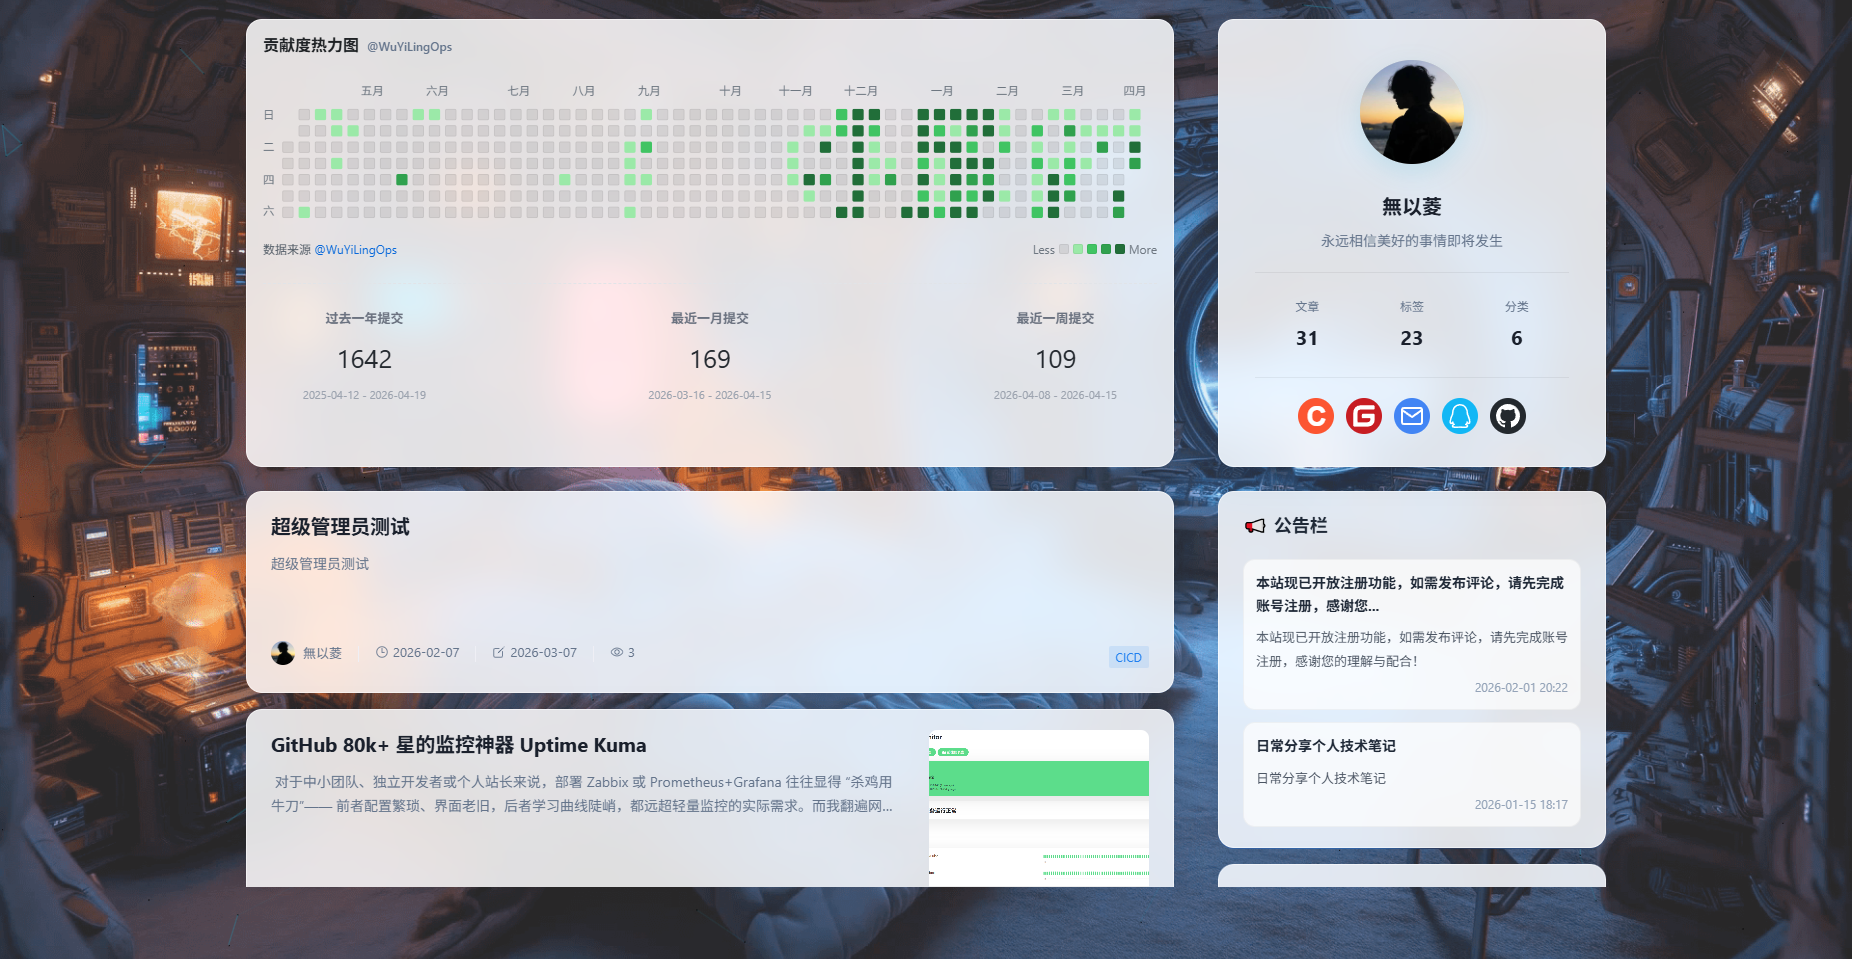
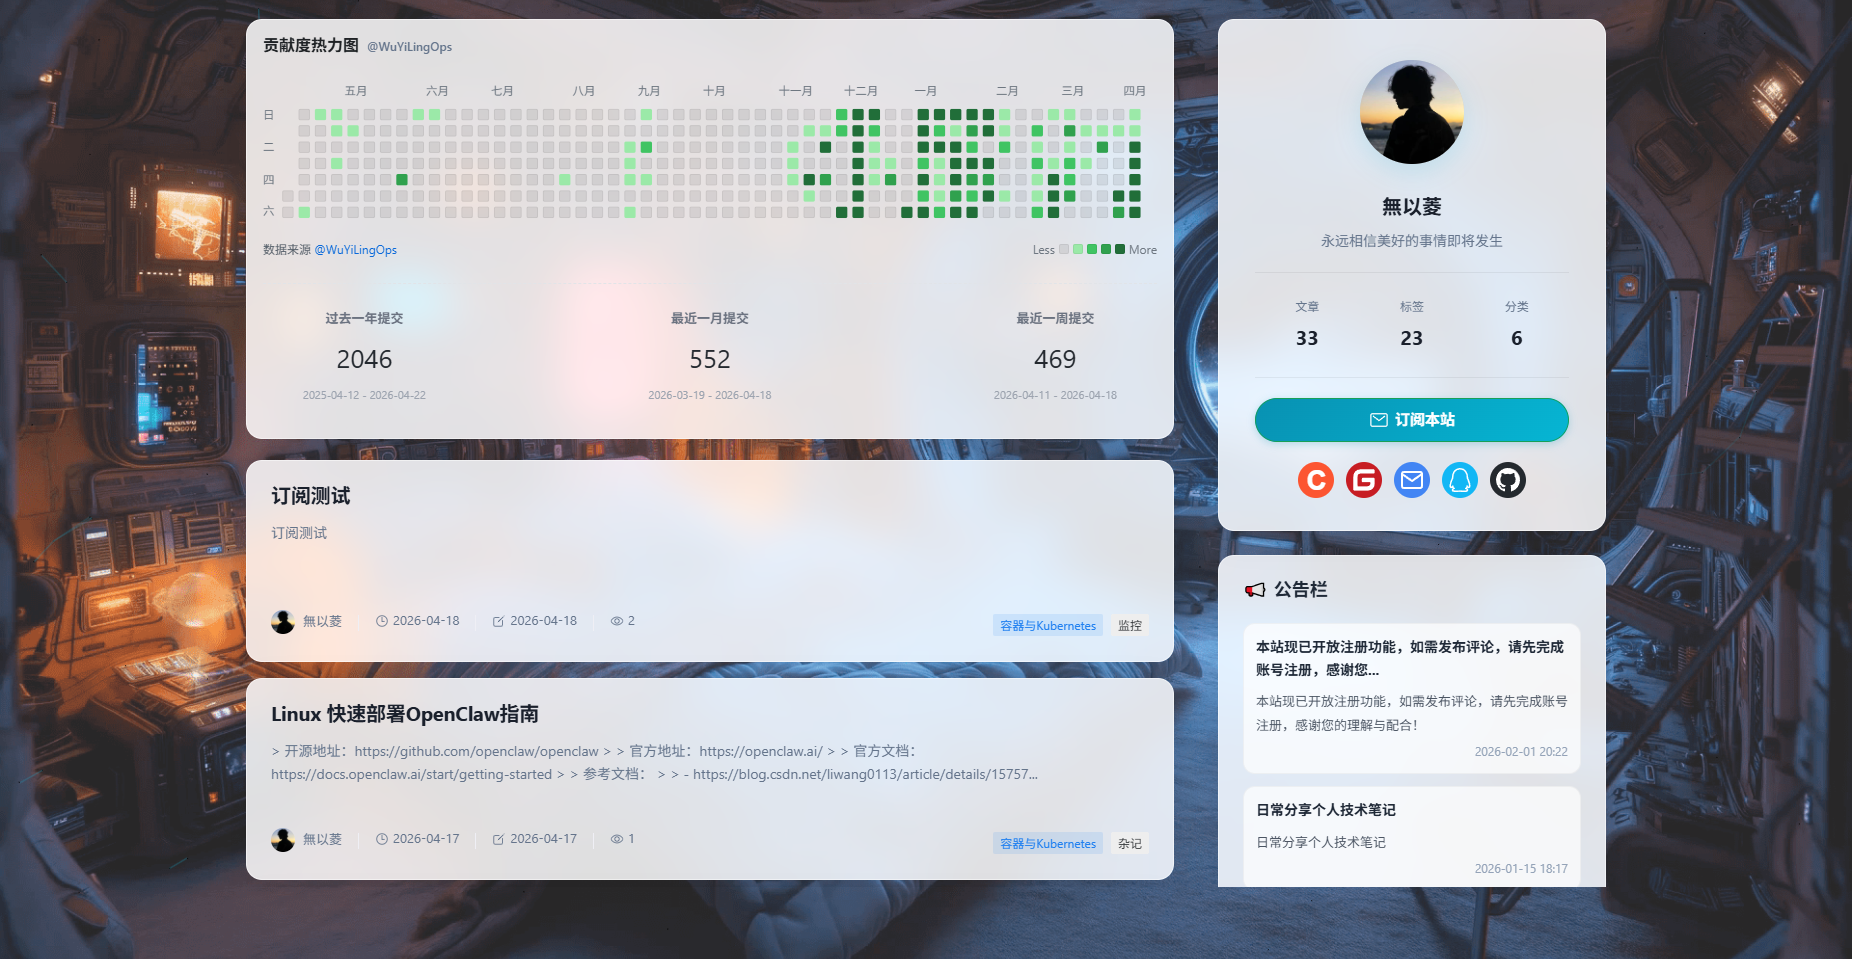
docs: 更新README文档，新增邮件订阅功能和移动端优化说明

diff --git a/README.md b/README.md
@@ -987,6 +987,7 @@ docker exec -i pg-prod pg_restore -U postgres -d blogdb --clean --if-exists < ba
 - **网站资讯面板** - 展示本站总字数、访客数、总访问量、最后更新时间（仅桌面端右侧展示，移动端自动隐藏）
 - **主题切换** - 支持亮色/暗色主题
 - **打赏功能** - 导航栏打赏按钮，点击弹出微信/支付宝收款码，未配置时提示暂未开放
+- **邮件订阅** - 支持用户订阅博客更新，文章发布时自动推送邮件通知，管理后台可管理订阅者
 
 ### 7.1.2 技术特性
 
@@ -1372,6 +1373,25 @@ myBlog/
 
 
 # 十一、更新日志
+
+## 2026-04-18
+
+- 新增邮件订阅功能
+  - 前台订阅页面：用户可输入邮箱订阅博客更新
+  - 订阅者管理：管理后台可查看、删除订阅者
+  - 自动邮件推送：文章发布时自动向所有订阅者发送邮件通知
+  - 退订功能：邮件中包含一键退订链接
+  - 邮件模板优化：专业HTML邮件模板，支持文章摘要和封面图展示
+- 首页布局优化
+  - 个人名片新增订阅按钮，支持悬停动画效果（弹跳+图标动画）
+  - 调整文章列表与热力图间距，优化页面布局
+  - 优化热力图卡片底部间距
+- 移动端适配优化
+  - 修复移动端标签列表与文章重叠问题
+  - 文章列表负边距仅在桌面端生效，移动端使用正常间距
+- 管理后台功能增强
+  - 新增订阅者管理入口
+  - 订阅者列表支持分页、搜索和批量删除
 
 ## 2026-02-07
 
